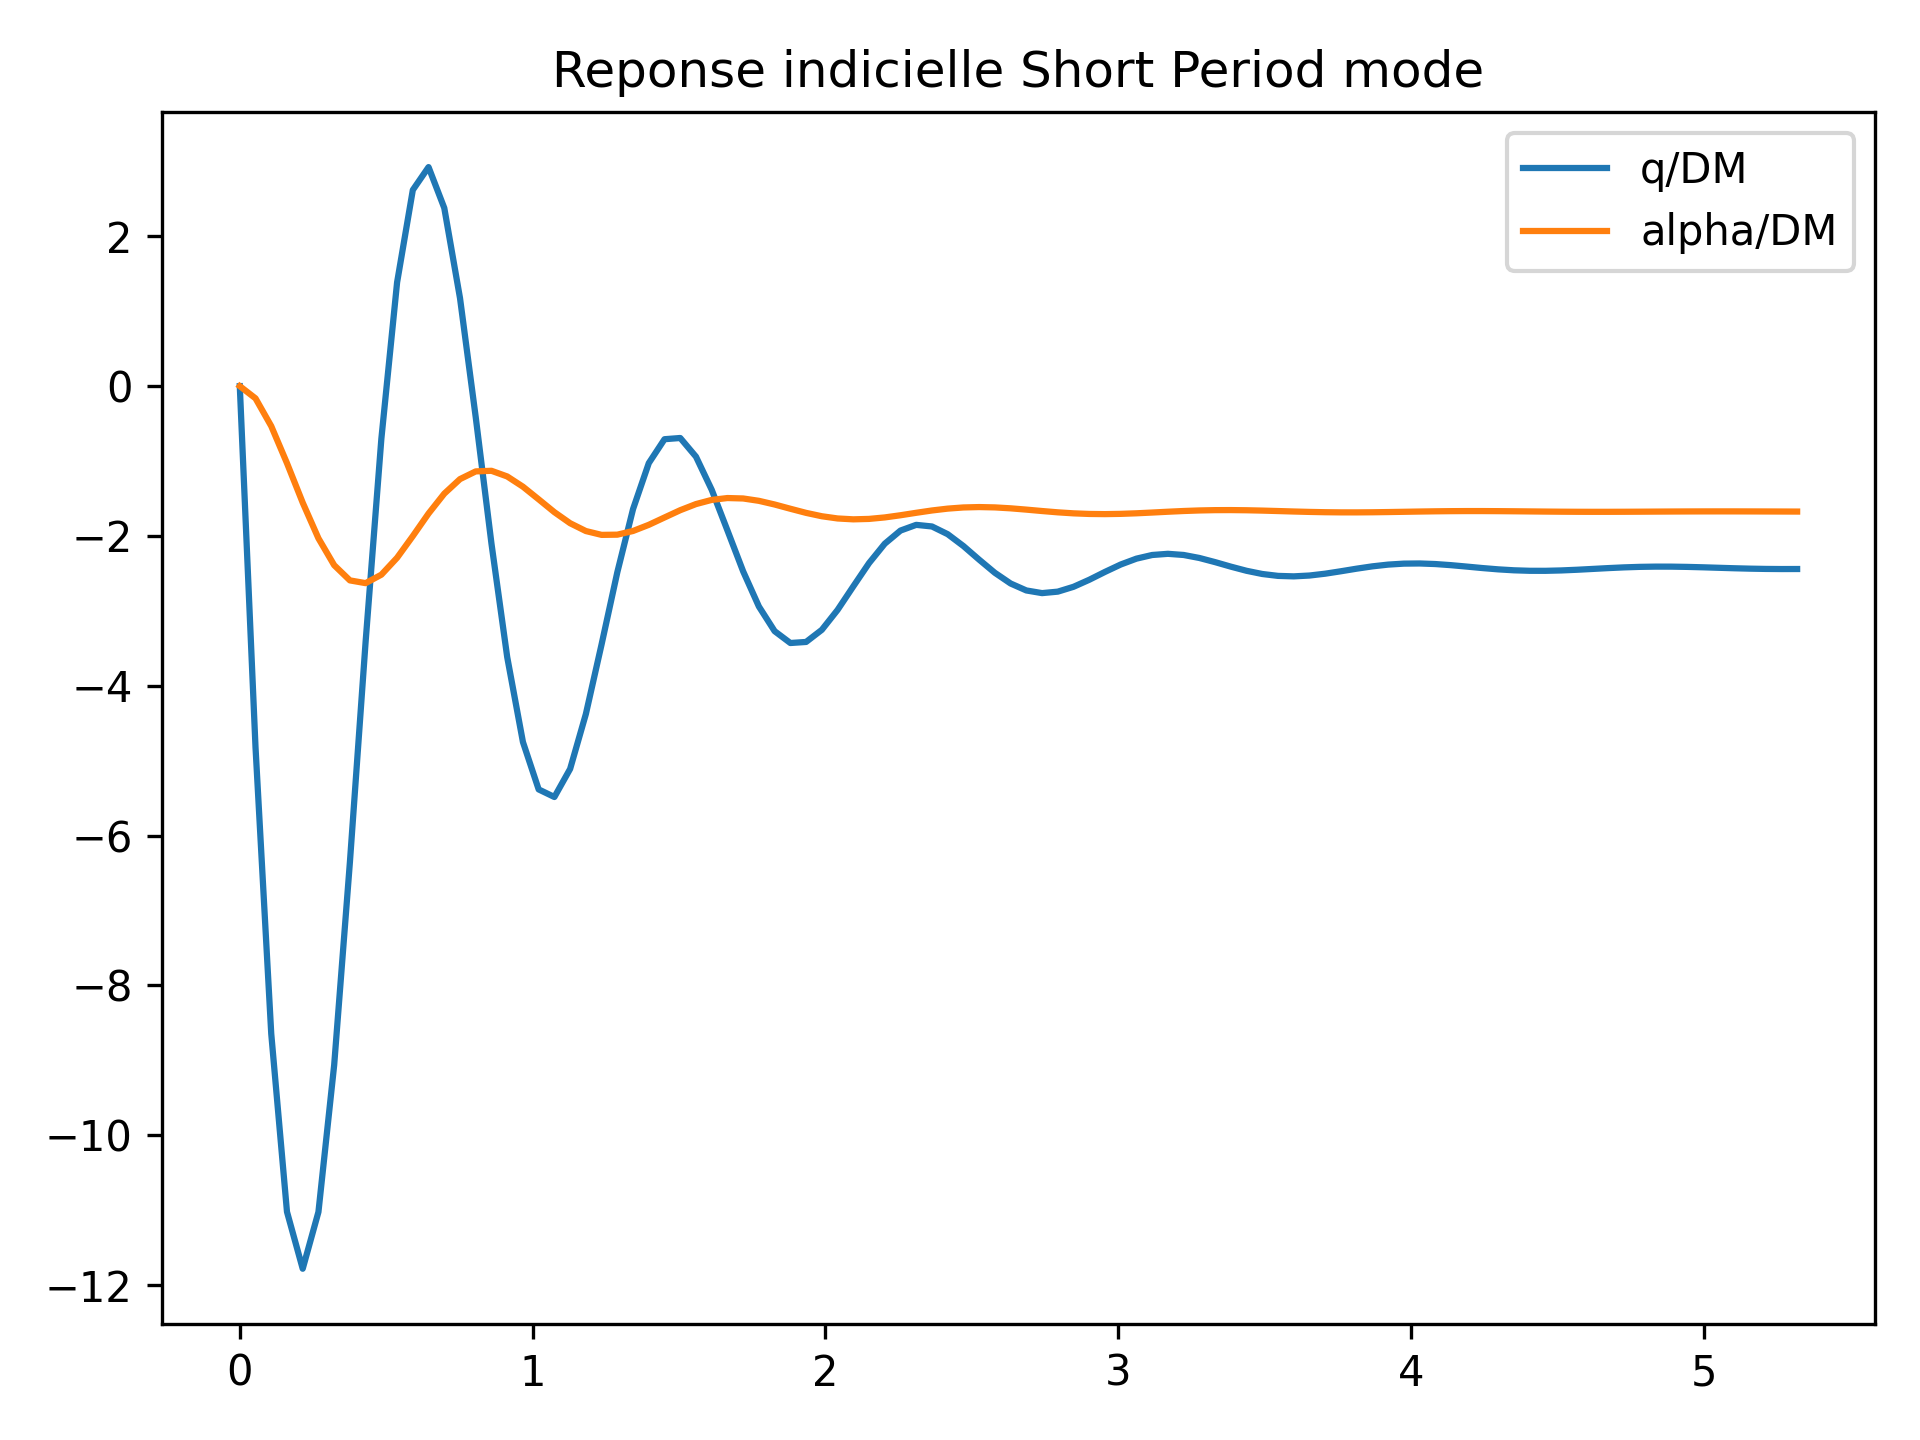
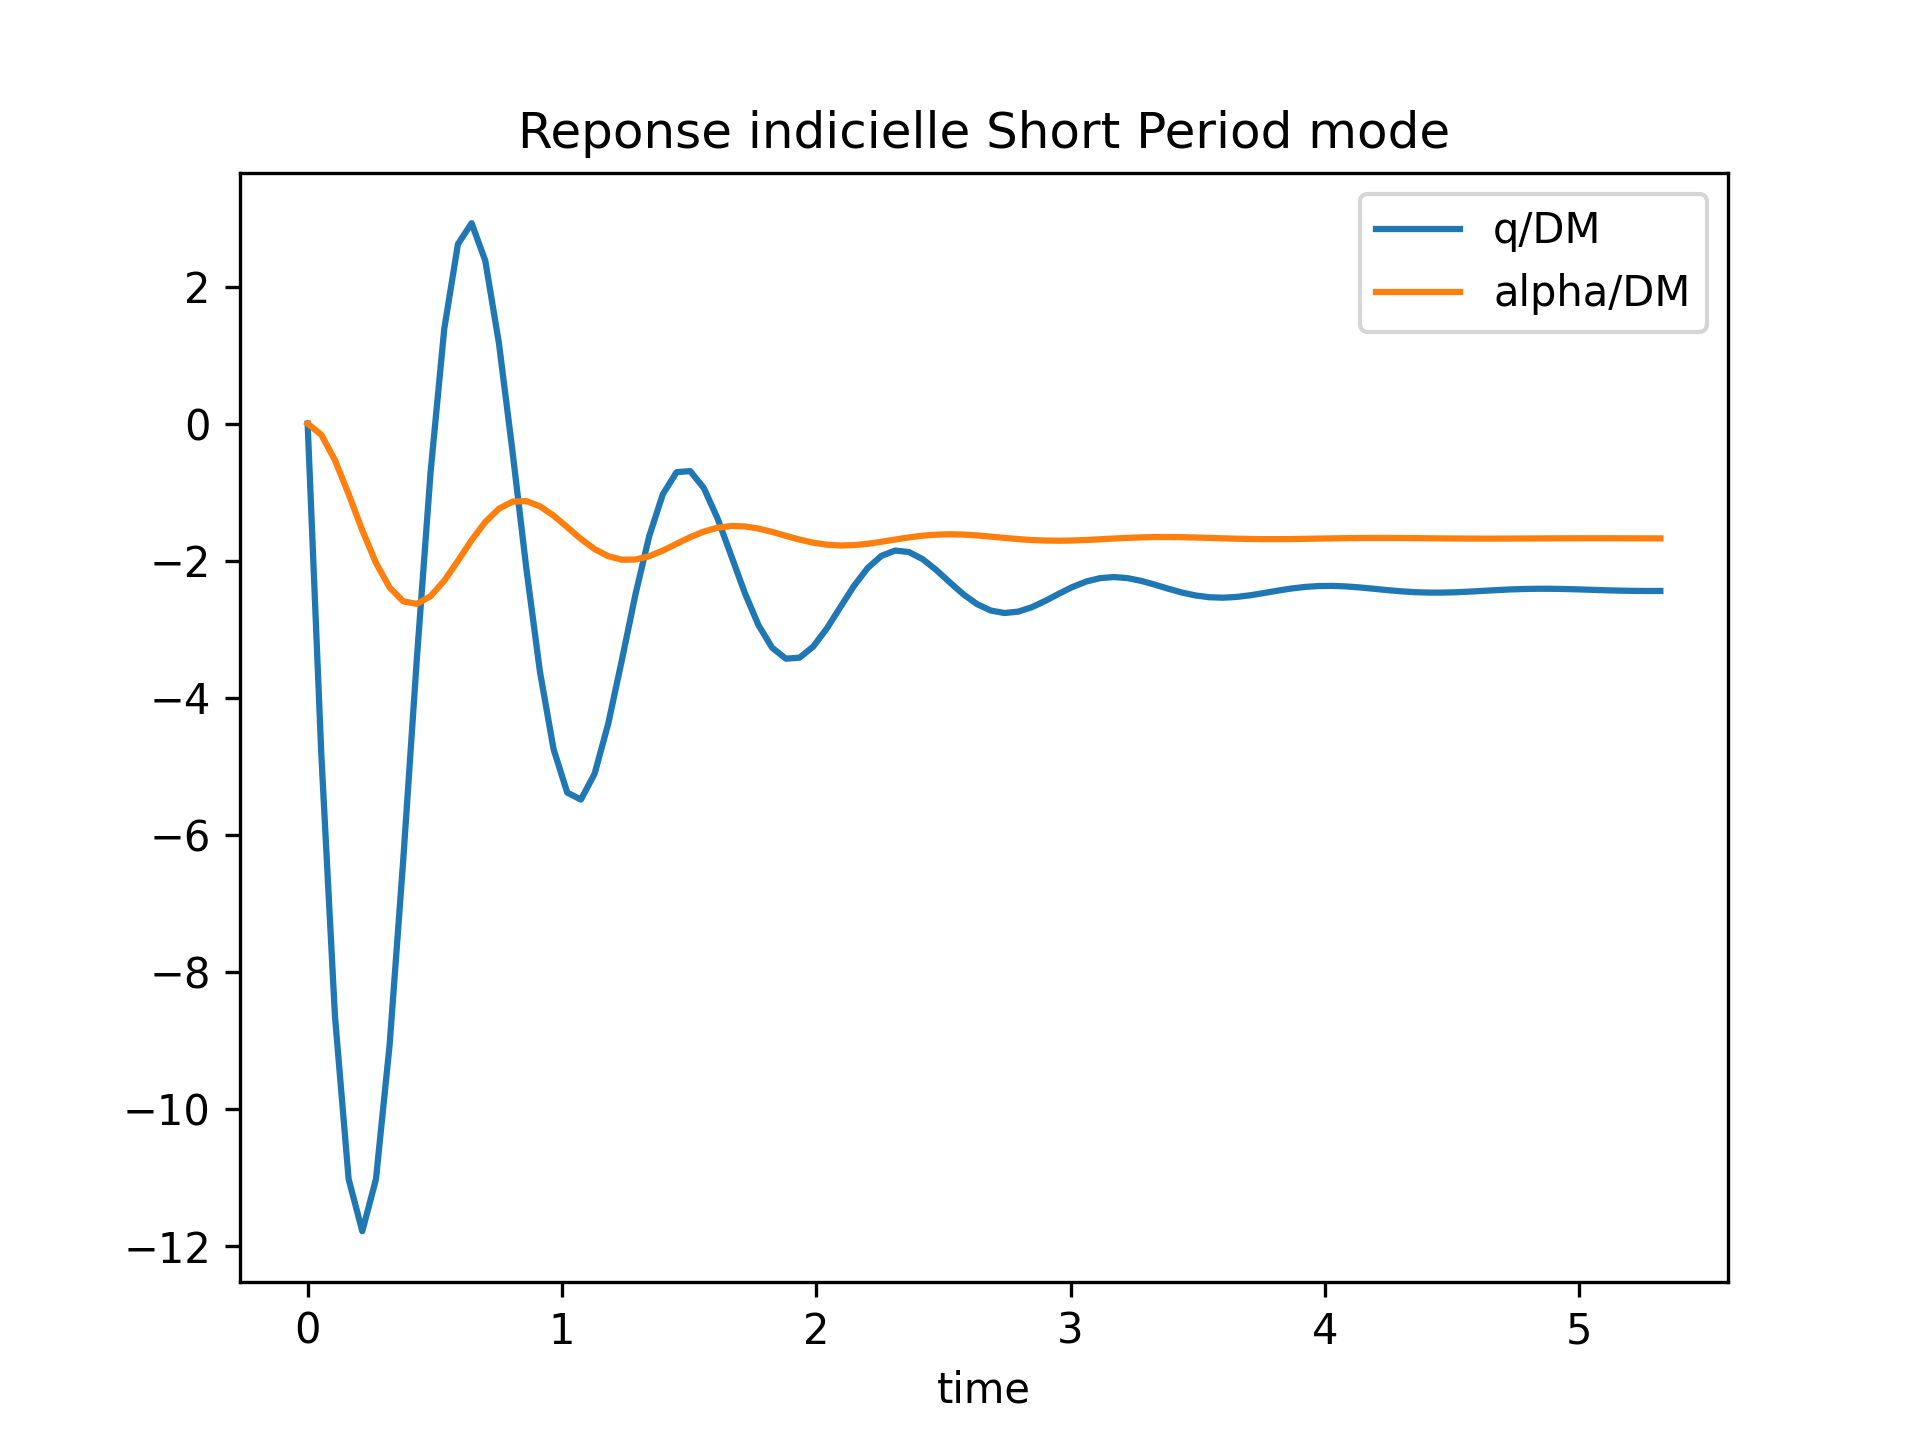
blabla

diff --git a/TP_Pilotage.py b/TP_Pilotage.py
@@ -157,15 +157,15 @@ print('Transfer function gamma : \n', tf_gamma)
 Yv_phu, Tv_phu = control.matlab.step(ss(tf_v))
 Ygamma_phu, Tgamma_phu = control.matlab.step(ss(tf_gamma))
 
-'''
+
 plt.figure()
 plt.plot(Tv_phu, Yv_phu, label='v/DM')
 plt.plot(Tgamma_phu, Ygamma_phu, label='gamma/DM')
+plt.xlabel("Time")
 plt.legend()
 plt.title('Reponse indicielle Phugoid mode')
-plt.tight_layout()
 plt.savefig("Plots/reponse_indicielle_phugoid.png", dpi=300)
-'''
+
 # ------
 print('\n------------------------------------------------------------------')
 
@@ -192,15 +192,15 @@ print('Transfer function q : \n', tf_q)
 Yq_sp, Tq_sp = control.matlab.step(ss(tf_q))
 Yalpha_sp, Talpha_sp = control.matlab.step(ss(tf_alpha))
 
-"""
+
 plt.figure()
 plt.plot(Tq_sp, Yq_sp, label='q/DM')
 plt.plot(Talpha_sp, Yalpha_sp, label='alpha/DM')
 plt.legend()
+plt.xlabel("time")
 plt.title('Reponse indicielle Short Period mode')
-plt.tight_layout()
 plt.savefig("Plots/reponse_indicielle_shortperiod.png", dpi=300)
-"""
+
 
 
 
@@ -214,48 +214,51 @@ print('\n------------------------------------------------------------------')
 A5 = A[1:, 1:]
 B5 = B[1:, :]
 Cq = np.matrix([[0, 0, 1, 0, 0]])
-Dq = 0
-sys5 = ss(A5, B5, Cq, Dq)
-print('\n Transfer Function :')
-print(tf(sys5))
-control.matlab.damp(sys5)
+Dq = 0 #np.zeros((5,1))
+sys_autothrottle = ss(A5, B5, Cq, Dq)
+print('\n Transfer Function with auto-throttle :')
+print(tf(sys_autothrottle))
+control.matlab.damp(sys_autothrottle)
 print()
 
 
 # -------
 print('\n------------------------------------------------------------------')
-
+print('------ Q feedback ---------')
 # With the help of sisotool (see sisopy31.py), choose the gain Kr of q feedback loop such as the closed loop damping ratio is xi=0.65.
-#sisotool(-sys5, 0.01, 1)
+#sisotool(-sys_autothrottle, 0.01, 1)
 
 # after manual tuning, we find
-Kr = -0.07
+Kr = - 0.0859
 
 # -------
+# feedback
+Aq = A5 - Kr * B5 * np.array([0, 0, 1, 0, 0]) # longitudinal autopilot diapo 79
+Bq = Kr * B5
 
-syscl = control.feedback(tf(Kr,1) * sys5, 1)
-print('\nState space representation with feedback loop :\n')
-print(syscl)
+#print('\nState space representation with feedback loop :\n')
 
 # -------
 
 print('Transfer function of the system with feedback loop :')
-print(tf(syscl))
+Tf_feedback_Q = ss2tf(ss(Aq, Bq, np.array([0, 0, 1, 0, 0]), 0))
+print(Tf_feedback_Q)
 
 # -------
 
-control.matlab.damp(syscl)
+control.matlab.damp(Tf_feedback_Q)
 
-Yq, Tq = control.matlab.step(syscl)
-"""
+Yq, Tq = control.matlab.step(Tf_feedback_Q)
 plt.figure()
 plt.plot(Tq, Yq)
 plt.title("Step response with feedback loop")
-plt.savefig('Plots/step_response_feedback.png', dpi=300)
-"""
+plt.xlabel('Time')
+plt.savefig('Plots/Q_feedback_step_response.png', dpi=300)
+
+
 
 print('\n------------------------------------------------------------------')
-
+print('------- Q feedback with Washout filter ------')
 # Choose the time constant τ of the washout filter (τs/1+τs) allowing to have the same steady state gain for alpha with or without the q feedback loop. Plot the open loop response, the closed loop response without filter and the closed loop response with the washout filter. In the following of this study, this filter will not be taken into account.
 
 tau = 0.8
@@ -264,6 +267,7 @@ print('\nwashout filter : ', washout_filter)
  
 # Closed loop with washout filter
 feedback_with_filter_alpha = control.series(tf(1, Kr), control.feedback(tf(Kr, 1), control.series(tf_q, washout_filter)), tf_alpha)
+
 
 # Closed loop without washout filter
 feedback_without_filter_alpha = control.series(tf(1, Kr), control.feedback(tf(Kr, 1), tf_q), tf_alpha)
@@ -279,28 +283,86 @@ Y_open_loop, T_open_loop = control.step_response(ss(open_loop_alpha), T=temps)
 Y_feedback, T_feedback = control.step_response(feedback_without_filter_alpha, T=temps)
 Y_filter, T_filter = control.step_response(feedback_with_filter_alpha, T=temps)
 
-"""
+
 plt.figure()
 plt.plot(Y_open_loop, T_open_loop, label='open loop')
 plt.plot(Y_feedback, T_feedback, label='closed loop')
 plt.plot(Y_filter, T_filter, label='closed loop filter')
 plt.legend()
+plt.xlabel('Time')
 plt.title("Step response with feedback loop and washout filter")
-plt.savefig('Plots/step_response_feedback_and_filter.png', dpi=300)
-"""
+plt.savefig('Plots/Q_feedback_Washout_filter.png', dpi=300)
 
+print('\n------------------------------------------------------------------')
+print('------ Gamma feedback ---------')
 #Choose the gain Kγ of this flight path angle control loop with the help of sisotool;
 #Propose a first choice of a gain allowing a gain margin ≥ 7 dB and a phase margin ≥ 35° and an optimized settling time (to within a 5 % threshold).
-sisotool(-syscl, 0.01, 1)
+
+sisotool(-Tf_feedback_Q) #, 0.01, 1
+
 #After manual tuning, we find :
-
-K_gamma_test = - 0.198
-
-#Comment : 
+#K_gamma_test = - 0.199
+#Comment : If GM = 7dB then  tr5% = 1.172s. Maybe problem with OS
 
 #Choose a second tuning (that will be kept for going on with the study), with the following requirements:
 #an overshoot D1 ≤ 5%;
 #a settling time at 5% tr5% for a step response that must be optimized (meaning minimized);
 #the pseudo-periodic modes must be correctly damped (ξ ≥ 0.5).
+"""
+K_gamma = - 0.0649 #minimized tr5% = 0.846s
 
-#K_gamma = 0.16791
+#State space with V_p = 0
+A_gamma, B_gamma, C_gamma, D_gamma = ssdata(sys_autothrottle_Q_feedback)
+
+sys_gamma = ss(A_gamma,B_gamma,C_gamma,D_gamma)
+sys_gamma_cl = control.feedback(K_gamma * sys_autothrottle_Q_feedback, 1)
+print('\nState space representation with gamma feedback loop :\n')
+print(tf2ss(sys_gamma_cl))
+
+print('\nTransfer function of the system with gamma feedback loop :\n')
+print(tf(sys_gamma_cl))
+
+control.matlab.damp(sys_gamma_cl)
+
+
+Y_gamma, T_gamma = control.matlab.step(sys_gamma_cl)
+
+
+plt.figure()
+plt.plot(T_gamma, Y_gamma)
+plt.xlabel('Time')
+plt.title("Step response with feedback loop with gamma as output")
+plt.savefig('Plots/step_response_feedback_gamma.png', dpi=300)
+
+
+print('\n------------------------------------------------------------------')
+print('------ Z feedback ---------')
+#Z feedback loop
+
+#control.sisotool(-sys_gamma_cl, 0.01, 1)
+K_z = - 0.696 #There is a problem with the OS (donc sans doute avant aussi)
+
+A_z, B_z, C_z, D_z = ssdata(sys_gamma_cl) # ici je récupère le système d'avant pour créer le nouveau, je sais pas si c'est la bonne méthode.
+print("auto throttle C=", ssdata(sys_autothrottle)[2])
+print("q feedback C=", C_gamma)
+print("Q and gamma feedback C=", C_z)
+
+sys_z = ss(A_z,B_z,C_z,D_z)
+sys_z_cl = control.feedback(K_z * sys_gamma_cl, 1)
+print('\nState space representation with feedback loop :\n')
+print(tf2ss(sys_z_cl))
+
+print('\nTransfer function of the system with feedback loop :\n')
+print(tf(sys_z_cl))
+control.matlab.damp(sys_z_cl)
+
+
+Y_z, T_z = control.matlab.step(sys_z_cl)
+
+
+plt.figure()
+plt.plot(T_z, Y_z)
+plt.xlabel("Time")
+plt.title("Step response with feedback loop with z as output")
+plt.savefig('Plots/step_response_feedback_z.png', dpi=300)
+"""
